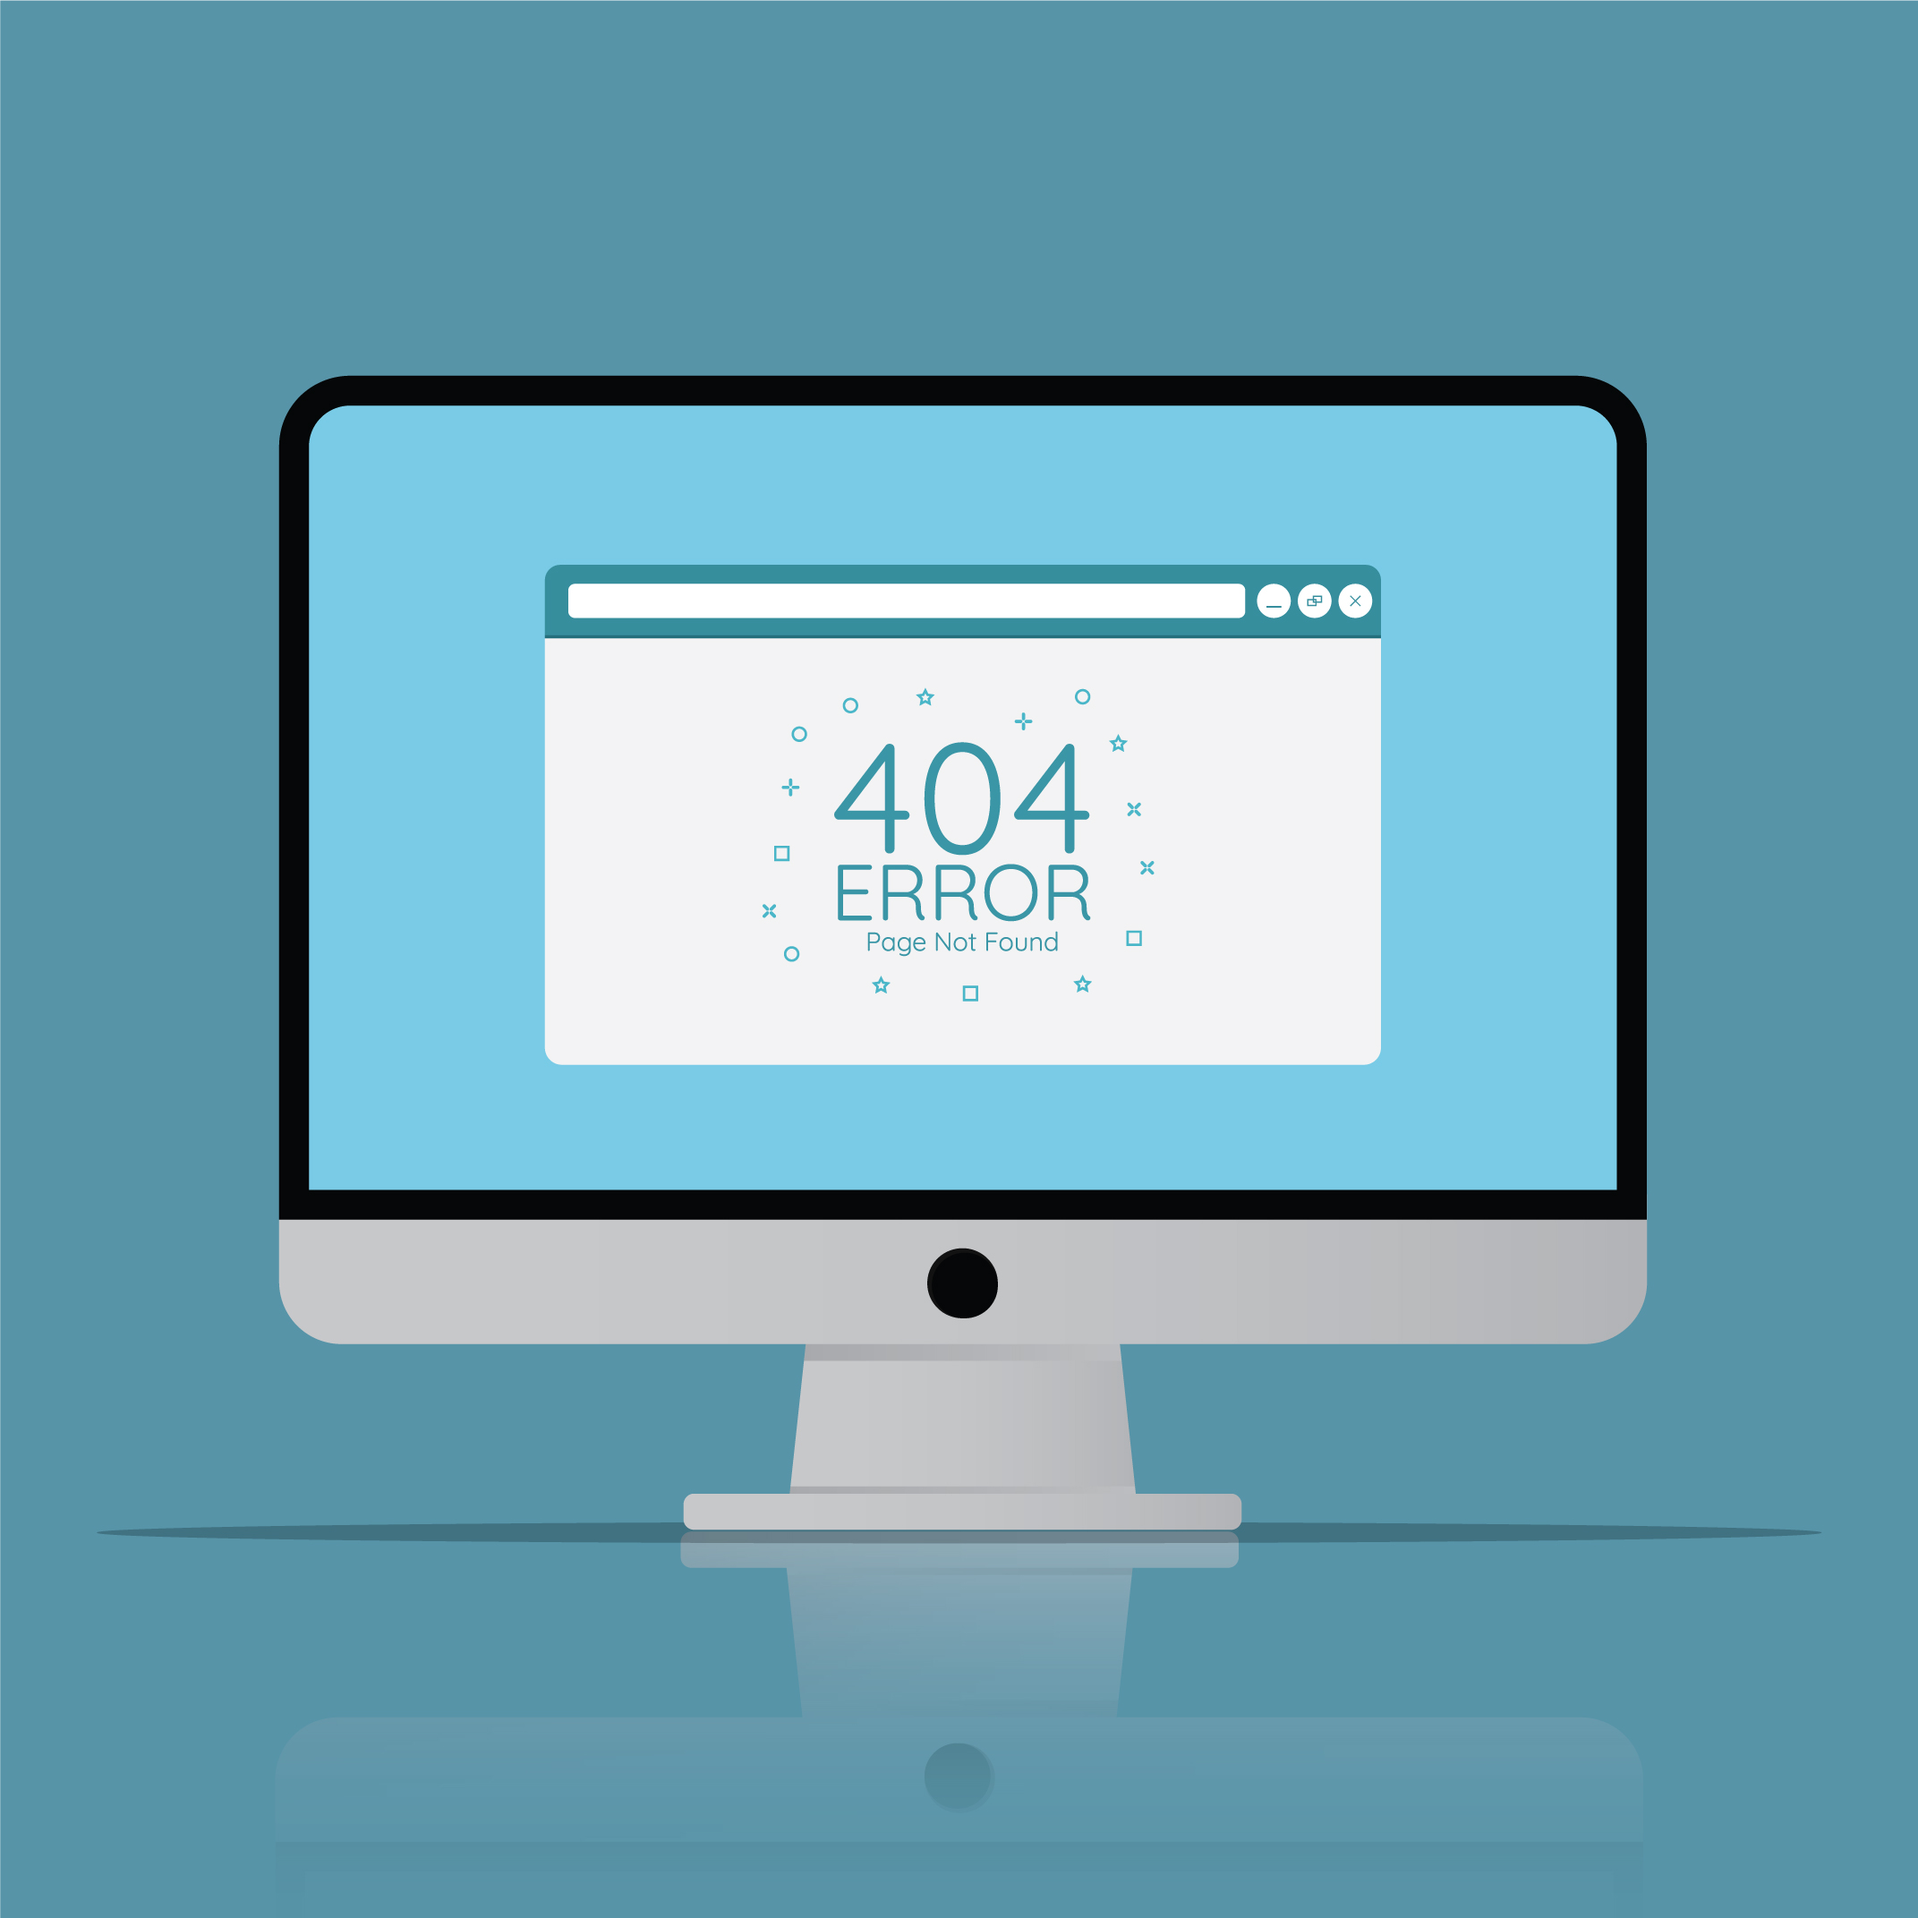
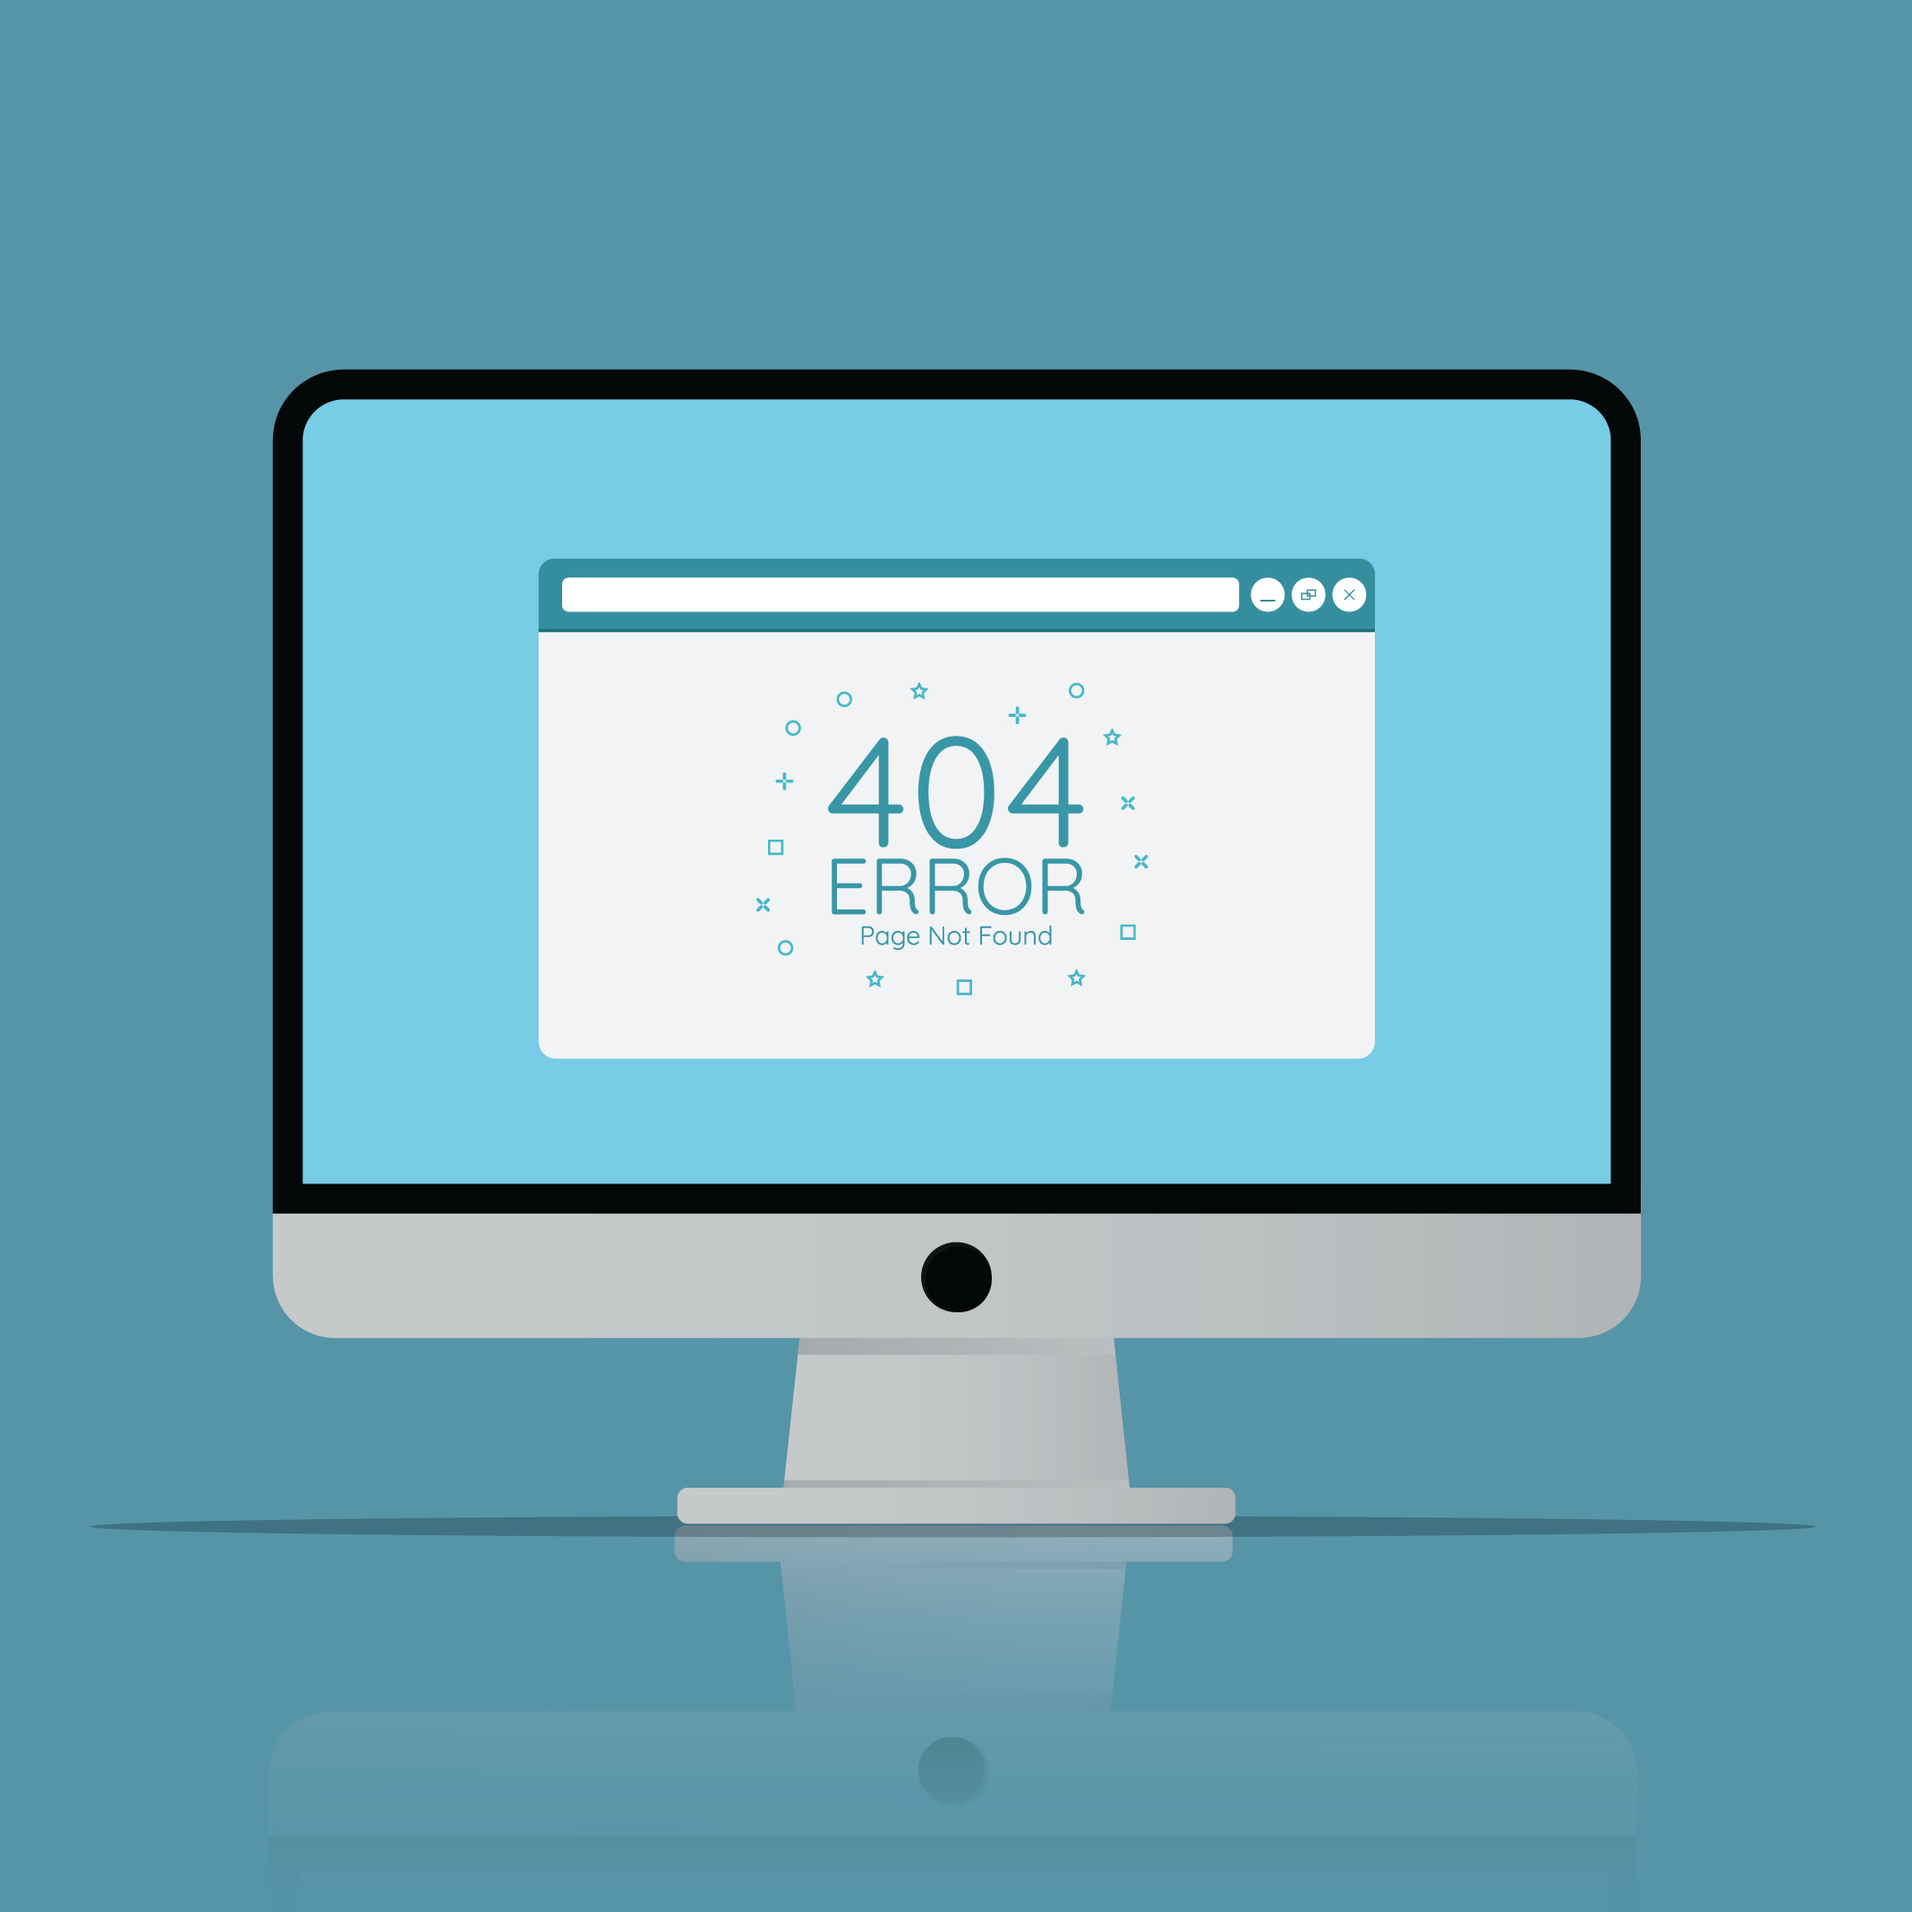
Added a return to home page for easier navigation. Modified the color to make it smoother.

diff --git a/src/pages/ErrorPages/Header.js b/src/pages/ErrorPages/Header.js
@@ -16,6 +16,9 @@ function Header() {
                                 QueueCLA
                             </Typography>
                         </Link>
+                        <Stack direction="row" justifyContent="flex-end" alignItems="center" spacing={2}>
+                            <Link to="/" style={{textDecoration: "none"}}><Button variant="contained" color="primary" href="/">Return to Home</Button></Link>
+                        </Stack>
                     </Stack>
                 </Container>
             </Toolbar>

diff --git a/src/pages/ErrorPages/notfound-styles.js b/src/pages/ErrorPages/notfound-styles.js
@@ -29,11 +29,11 @@ const useStyles = makeStyles((theme) => ({
         display: "block",
         marginLeft: "auto",
         marginRight: "auto",
-        maxHeight: "500px"
+        maxHeight: "500px",
+        border: "none"
     },
     mainbackground: {
-        // backgroundColor: "#5d93a4"
-        backgroundColor: "#5d93a4"
+        backgroundColor: "#5794A7"
     }
 }));
 
